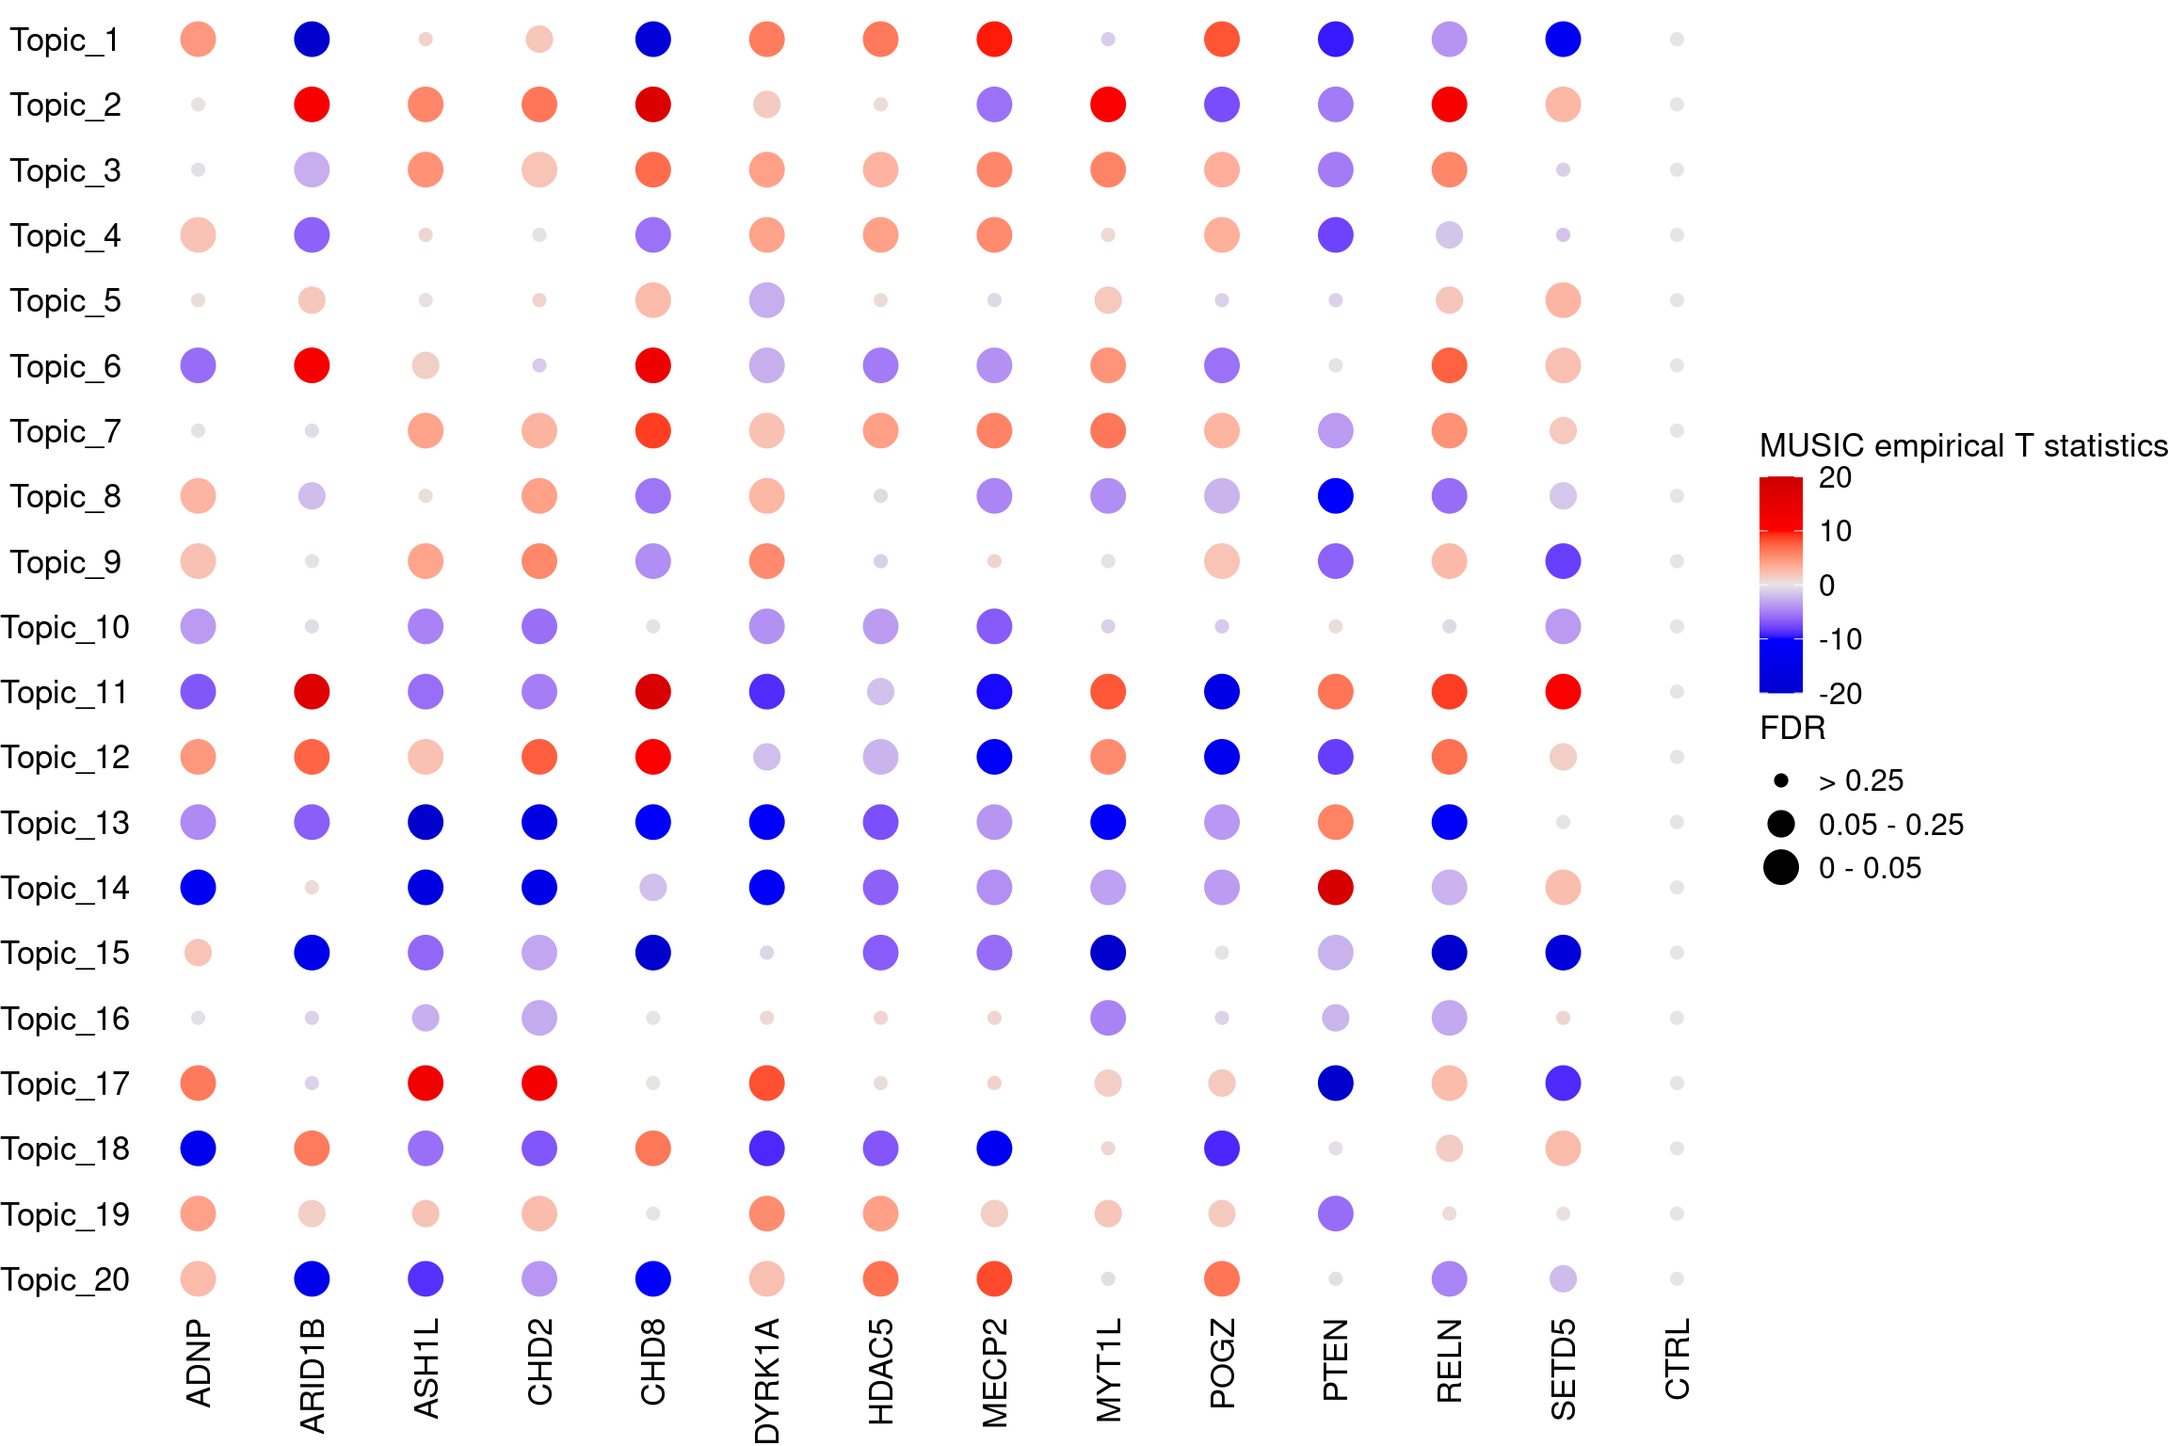
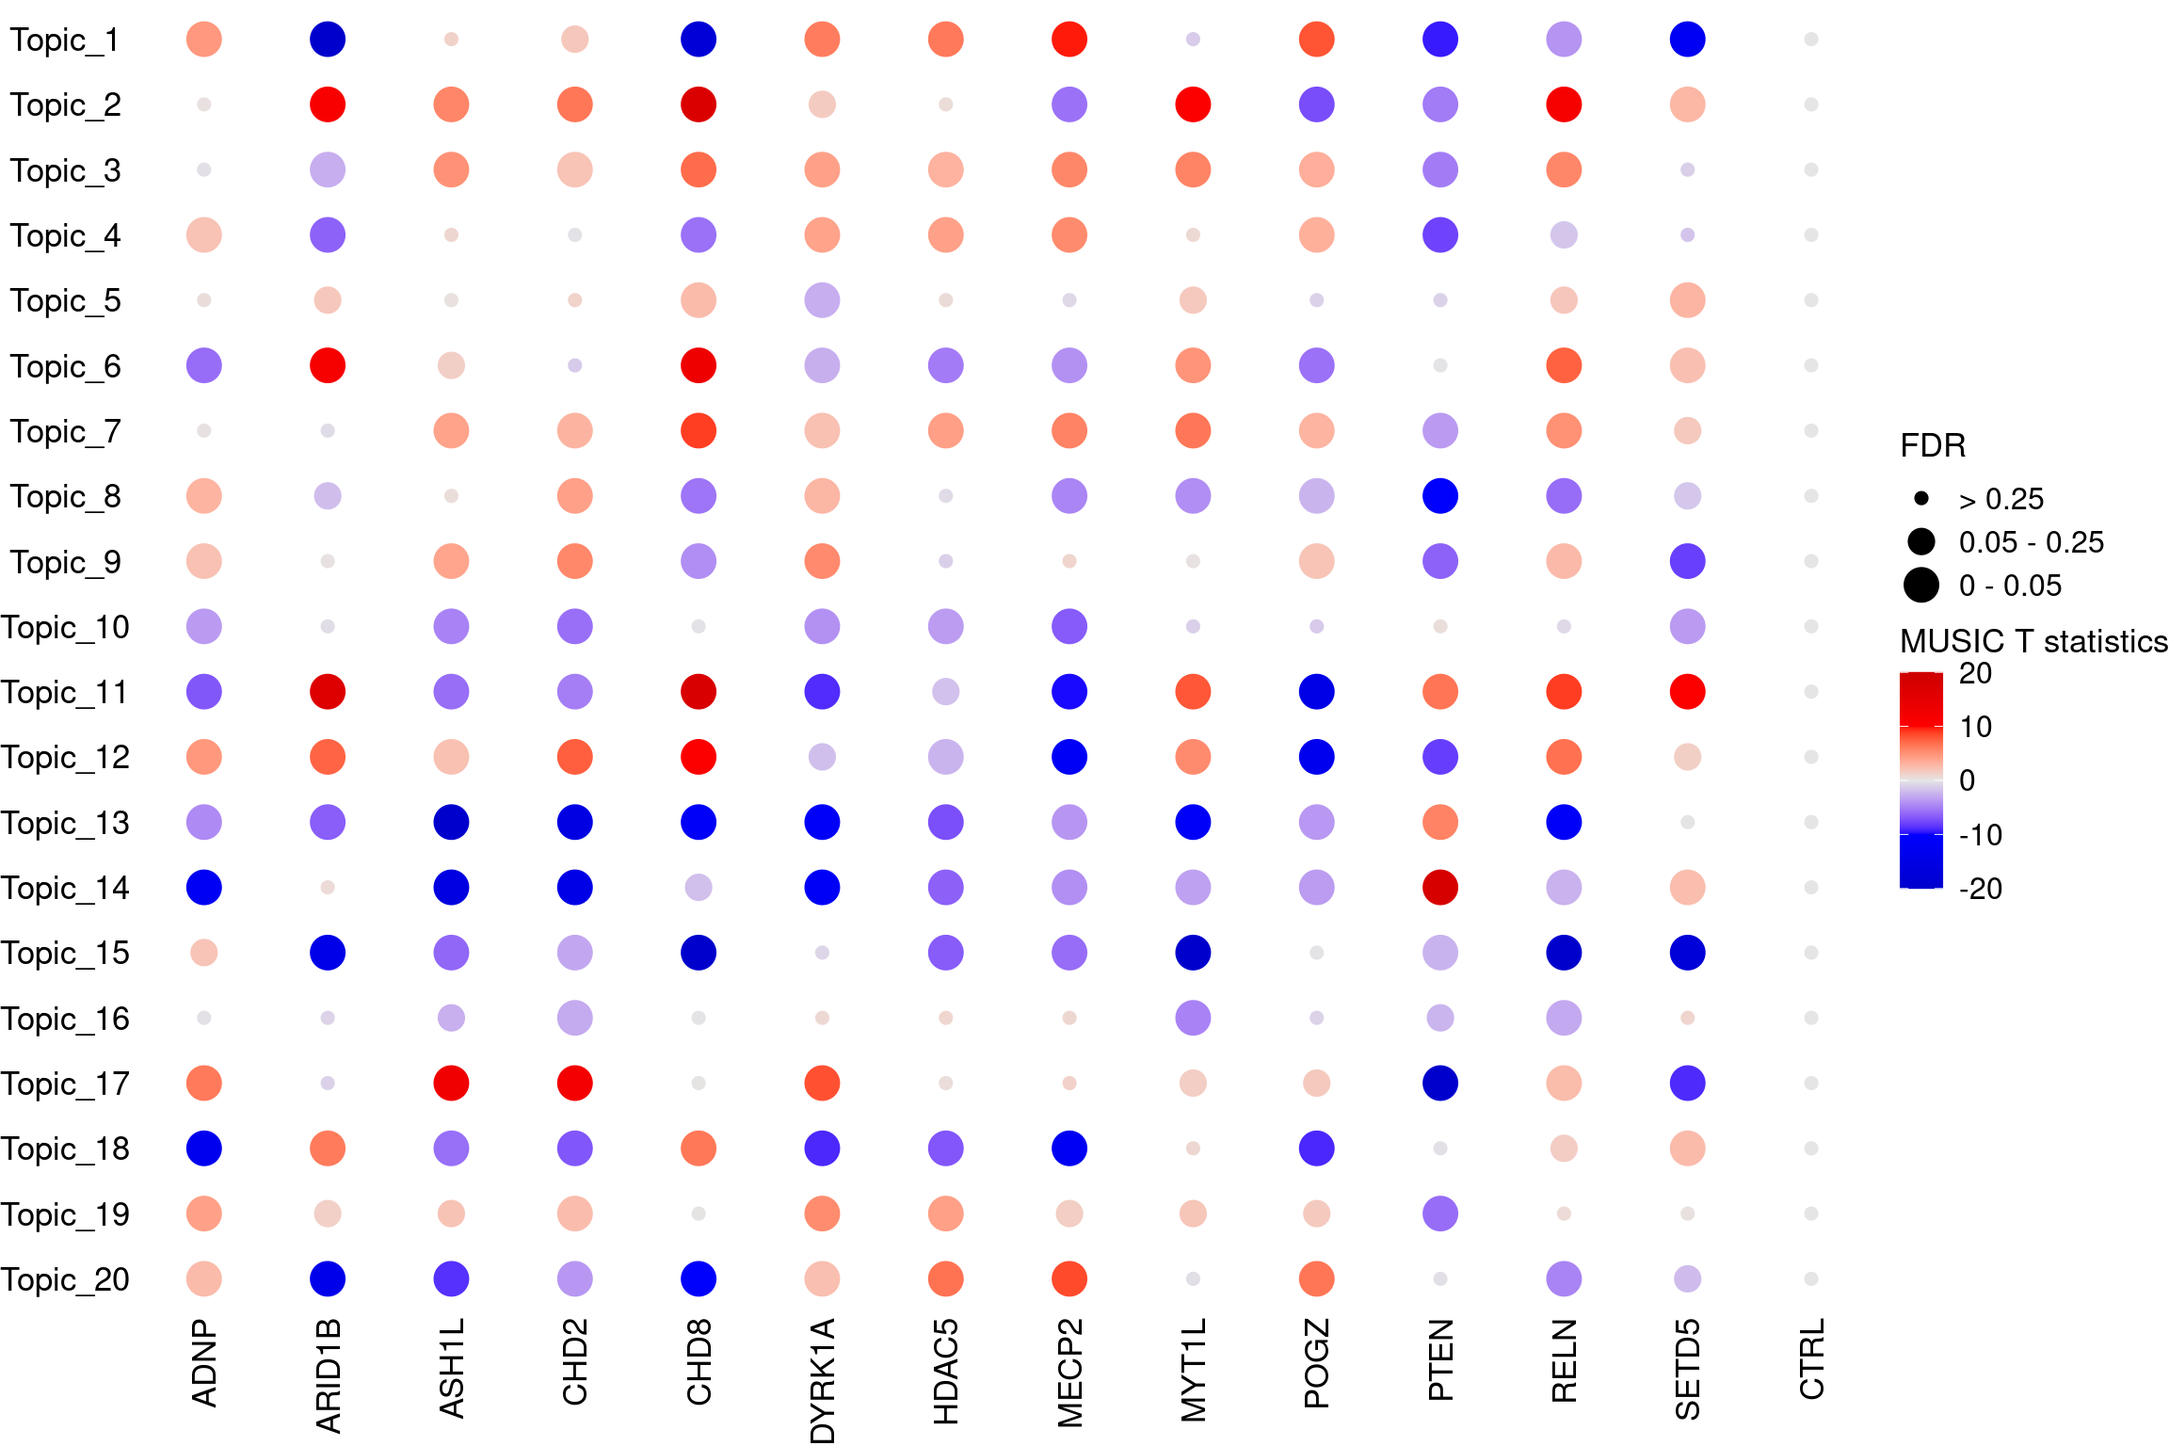
Build site.

diff --git a/docs/music_LUHMES_data.html b/docs/music_LUHMES_data.html
@@ -481,16 +481,16 @@ This reproducible <a href="https://rmarkdown.rstudio.com">R Markdown</a> analysi
 <div class="panel panel-default">
 <div class="panel-heading">
 <p class="panel-title">
-<a data-toggle="collapse" data-parent="#workflowr-checks" href="#strongRepositoryversionstrongahrefhttpsgithubcomkevinlkxGSFAanalysistreef5bca8a31531e4fbb291a07c9ed5ace21351dbcatargetblankf5bca8aa"> <span class="glyphicon glyphicon-ok text-success" aria-hidden="true"></span> <strong>Repository version:</strong> <a href="https://github.com/kevinlkx/GSFA-analysis/tree/f5bca8a31531e4fbb291a07c9ed5ace21351dbca" target="_blank">f5bca8a</a> </a>
+<a data-toggle="collapse" data-parent="#workflowr-checks" href="#strongRepositoryversionstrongahrefhttpsgithubcomkevinlkxGSFAanalysistree66afbb08b92317b1c845086ff906e45f00ec77a9targetblank66afbb0a"> <span class="glyphicon glyphicon-ok text-success" aria-hidden="true"></span> <strong>Repository version:</strong> <a href="https://github.com/kevinlkx/GSFA-analysis/tree/66afbb08b92317b1c845086ff906e45f00ec77a9" target="_blank">66afbb0</a> </a>
 </p>
 </div>
[2 lines of base64/hex data omitted]
 <div class="panel-body">
 <p>
 Great! You are using Git for version control. Tracking code development and connecting the code version to the results is critical for reproducibility.
 </p>
 <p>
-The results in this page were generated with repository version <a href="https://github.com/kevinlkx/GSFA-analysis/tree/f5bca8a31531e4fbb291a07c9ed5ace21351dbca" target="_blank">f5bca8a</a>. See the <em>Past versions</em> tab to see a history of the changes made to the R Markdown and HTML files.
+The results in this page were generated with repository version <a href="https://github.com/kevinlkx/GSFA-analysis/tree/66afbb08b92317b1c845086ff906e45f00ec77a9" target="_blank">66afbb0</a>. See the <em>Past versions</em> tab to see a history of the changes made to the R Markdown and HTML files.
 </p>
 <p>
 Note that you need to be careful to ensure that all relevant files for the analysis have been committed to Git prior to generating the results (you can use <code>wflow_publish</code> or <code>wflow_git_commit</code>). workflowr only checks the R Markdown file, but you know if there are other scripts or data files that it depends on. Below is the status of the Git repository when the results were generated:
@@ -503,14 +503,11 @@ Ignored files:
 Untracked files:
     Untracked:  analysis/interpret_gsfa_LUHMES.Rmd
     Untracked:  analysis/spca_LUHMES_data.Rmd
+    Untracked:  analysis/twostep_clustering_LUHMES_data.Rmd
     Untracked:  code/music_LUHMES_Yifan.R
     Untracked:  code/plotting_functions.R
     Untracked:  code/run_music_LUHMES.R
     Untracked:  code/run_music_LUHMES_data.sbatch
-    Untracked:  code/run_music_Tcells_stimulated_data.R
-    Untracked:  code/run_music_Tcells_stimulated_data.sbatch
-    Untracked:  code/run_music_Tcells_unstimulated_data.R
-    Untracked:  code/run_music_Tcells_unstimulated_data.sbatch
     Untracked:  code/run_sceptre_LUHMES_data.sbatch
     Untracked:  code/run_sceptre_Tcells_stimulated_data.sbatch
     Untracked:  code/run_sceptre_Tcells_unstimulated_data.sbatch
@@ -519,9 +516,9 @@ Untracked files:
     Untracked:  code/sceptre_LUHMES_data.R
     Untracked:  code/sceptre_Tcells_stimulated_data.R
     Untracked:  code/sceptre_Tcells_unstimulated_data.R
+    Untracked:  code/seurat_sim_fpr_tpr.R
 
 Unstaged changes:
-    Modified:   analysis/music_TCells_data.Rmd
     Modified:   analysis/sceptre_LUHMES_data.Rmd
     Modified:   code/run_sceptre_cropseq_data.sbatch
     Modified:   code/sceptre_analysis.R
@@ -563,6 +560,40 @@ Message
 </tr>
 </thead>
 <tbody>
+<tr>
+<td>
+Rmd
+</td>
+<td>
+<a href="https://github.com/kevinlkx/GSFA-analysis/blob/66afbb08b92317b1c845086ff906e45f00ec77a9/analysis/music_LUHMES_data.Rmd" target="_blank">66afbb0</a>
+</td>
+<td>
+kevinlkx
+</td>
+<td>
+2022-07-29
+</td>
+<td>
+update dotplot figure legend
+</td>
+</tr>
+<tr>
+<td>
+html
+</td>
+<td>
+<a href="https://rawcdn.githack.com/kevinlkx/GSFA-analysis/2763f3360213a6853baf049c46c0e69df3022fb8/docs/music_LUHMES_data.html" target="_blank">2763f33</a>
+</td>
+<td>
+kevinlkx
+</td>
+<td>
+2022-07-29
+</td>
+<td>
+Build site.
+</td>
+</tr>
 <tr>
 <td>
 Rmd
@@ -1052,18 +1083,92 @@ ht &lt;- Heatmap(log10_pval_mat,
                                                           fontface = &quot;bold&quot;)))
 draw(ht)</code></pre>
 <p><img src="figure/music_LUHMES_data.Rmd/empirical_tstats_heatmap_20topics-1.png" width="1152" style="display: block; margin: auto;" /></p>
+<p>
+<button type="button" class="btn btn-default btn-xs btn-workflowr btn-workflowr-fig" data-toggle="collapse" data-target="#fig-empirical_tstats_heatmap_20topics-1">
+Past versions of empirical_tstats_heatmap_20topics-1.png
+</button>
+</p>
+<div id="fig-empirical_tstats_heatmap_20topics-1" class="collapse">
+<div class="table-responsive">
+<table class="table table-condensed table-hover">
+<thead>
+<tr>
+<th>
+Version
+</th>
+<th>
+Author
+</th>
+<th>
+Date
+</th>
+</tr>
+</thead>
+<tbody>
+<tr>
+<td>
+<a href="https://github.com/kevinlkx/GSFA-analysis/blob/2763f3360213a6853baf049c46c0e69df3022fb8/docs/figure/music_LUHMES_data.Rmd/empirical_tstats_heatmap_20topics-1.png" target="_blank">2763f33</a>
+</td>
+<td>
+kevinlkx
+</td>
+<td>
+2022-07-29
+</td>
+</tr>
+</tbody>
+</table>
+</div>
+</div>
 <pre class="r"><code># dev.off()</code></pre>
 <pre class="r"><code># pdf(&quot;music_output/music_merged_20_topics_empirical_tstats_fdr_dotplot.pdf&quot;,
 #     width = 12, height = 8)
 KO_names &lt;- rownames(fdr_mat)
 dotplot_effectsize(t(effect_mat), t(fdr_mat),
                    reorder_markers = c(KO_names[KO_names!=&quot;CTRL&quot;], &quot;CTRL&quot;),
-                   color_lgd_title = &quot;MUSIC empirical T statistics&quot;,
+                   color_lgd_title = &quot;MUSIC T statistics&quot;,
                    size_lgd_title = &quot;FDR&quot;,
                    max_score = 20,
                    min_score = -20,
                    by_score = 10)</code></pre>
 <p><img src="figure/music_LUHMES_data.Rmd/effect_fdr_dotplot_20topics-1.png" width="1152" style="display: block; margin: auto;" /></p>
+<p>
+<button type="button" class="btn btn-default btn-xs btn-workflowr btn-workflowr-fig" data-toggle="collapse" data-target="#fig-effect_fdr_dotplot_20topics-1">
+Past versions of effect_fdr_dotplot_20topics-1.png
+</button>
+</p>
+<div id="fig-effect_fdr_dotplot_20topics-1" class="collapse">
+<div class="table-responsive">
+<table class="table table-condensed table-hover">
+<thead>
+<tr>
+<th>
+Version
+</th>
+<th>
+Author
+</th>
+<th>
+Date
+</th>
+</tr>
+</thead>
+<tbody>
+<tr>
+<td>
+<a href="https://github.com/kevinlkx/GSFA-analysis/blob/2763f3360213a6853baf049c46c0e69df3022fb8/docs/figure/music_LUHMES_data.Rmd/effect_fdr_dotplot_20topics-1.png" target="_blank">2763f33</a>
+</td>
+<td>
+kevinlkx
+</td>
+<td>
+2022-07-29
+</td>
+</tr>
+</tbody>
+</table>
+</div>
+</div>
 <pre class="r"><code># dev.off()</code></pre>
 </div>
 <div id="summarize-the-results-using-the-optimal-number-of-topics-selected-by-the-score" class="section level3">
@@ -1237,18 +1342,92 @@ ht &lt;- Heatmap(log10_pval_mat,
                                                           fontface = &quot;bold&quot;)))
 draw(ht)</code></pre>
 <p><img src="figure/music_LUHMES_data.Rmd/empirical_tstats_heatmap_4topics-1.png" width="1152" style="display: block; margin: auto;" /></p>
+<p>
+<button type="button" class="btn btn-default btn-xs btn-workflowr btn-workflowr-fig" data-toggle="collapse" data-target="#fig-empirical_tstats_heatmap_4topics-1">
+Past versions of empirical_tstats_heatmap_4topics-1.png
+</button>
+</p>
+<div id="fig-empirical_tstats_heatmap_4topics-1" class="collapse">
+<div class="table-responsive">
+<table class="table table-condensed table-hover">
+<thead>
+<tr>
+<th>
+Version
+</th>
+<th>
+Author
+</th>
+<th>
+Date
+</th>
+</tr>
+</thead>
+<tbody>
+<tr>
+<td>
+<a href="https://github.com/kevinlkx/GSFA-analysis/blob/2763f3360213a6853baf049c46c0e69df3022fb8/docs/figure/music_LUHMES_data.Rmd/empirical_tstats_heatmap_4topics-1.png" target="_blank">2763f33</a>
+</td>
+<td>
+kevinlkx
+</td>
+<td>
+2022-07-29
+</td>
+</tr>
+</tbody>
+</table>
+</div>
+</div>
 <pre class="r"><code># dev.off()</code></pre>
 <pre class="r"><code># pdf(&quot;music_output/music_merged_4_topics_empirical_tstats_fdr_dotplot.pdf&quot;,
 #     width = 12, height = 8)
 KO_names &lt;- rownames(fdr_mat)
 dotplot_effectsize(t(effect_mat), t(fdr_mat),
                    reorder_markers = c(KO_names[KO_names!=&quot;CTRL&quot;], &quot;CTRL&quot;),
-                   color_lgd_title = &quot;MUSIC empirical T statistics&quot;,
+                   color_lgd_title = &quot;MUSIC T statistics&quot;,
                    size_lgd_title = &quot;FDR&quot;,
                    max_score = 20,
                    min_score = -20,
                    by_score = 10)</code></pre>
 <p><img src="figure/music_LUHMES_data.Rmd/effect_fdr_dotplot_4topics-1.png" width="1152" style="display: block; margin: auto;" /></p>
+<p>
+<button type="button" class="btn btn-default btn-xs btn-workflowr btn-workflowr-fig" data-toggle="collapse" data-target="#fig-effect_fdr_dotplot_4topics-1">
+Past versions of effect_fdr_dotplot_4topics-1.png
+</button>
+</p>
+<div id="fig-effect_fdr_dotplot_4topics-1" class="collapse">
+<div class="table-responsive">
+<table class="table table-condensed table-hover">
+<thead>
+<tr>
+<th>
+Version
+</th>
+<th>
+Author
+</th>
+<th>
+Date
+</th>
+</tr>
+</thead>
+<tbody>
+<tr>
+<td>
+<a href="https://github.com/kevinlkx/GSFA-analysis/blob/2763f3360213a6853baf049c46c0e69df3022fb8/docs/figure/music_LUHMES_data.Rmd/effect_fdr_dotplot_4topics-1.png" target="_blank">2763f33</a>
+</td>
+<td>
+kevinlkx
+</td>
+<td>
+2022-07-29
+</td>
+</tr>
+</tbody>
+</table>
+</div>
+</div>
 <pre class="r"><code># dev.off()</code></pre>
 <br>
 <p>
@@ -1285,6 +1464,7 @@ other attached packages:
 [13] topicmodels_0.2-12     Biostrings_2.58.0      XVector_0.30.0        
 [16] IRanges_2.24.1         S4Vectors_0.28.1       BiocGenerics_0.36.1   
 [19] SeuratObject_4.0.4     Seurat_4.1.0           data.table_1.14.2     
+[22] workflowr_1.7.0       
 
 loaded via a namespace (and not attached):
   [1] utf8_1.2.2            R.utils_2.11.0        reticulate_1.24      
@@ -1305,43 +1485,44 @@ loaded via a namespace (and not attached):
  [46] fgsea_1.21.0          assertthat_0.2.1      promises_1.2.0.1     
  [49] scales_1.2.0          ggraph_2.0.5          enrichplot_1.10.2    
  [52] gtable_0.3.0          Cairo_1.5-15          globals_0.14.0       
- [55] goftest_1.2-3         tidygraph_1.2.0       workflowr_1.7.0      
+ [55] processx_3.5.3        goftest_1.2-3         tidygraph_1.2.0      
  [58] rlang_1.0.2           GlobalOptions_0.1.2   splines_4.0.4        
  [61] lazyeval_0.2.2        spatstat.geom_2.3-2   BiocManager_1.30.16  
  [64] yaml_2.3.5            abind_1.4-5           httpuv_1.6.5         
  [67] qvalue_2.22.0         tools_4.0.4           ellipsis_0.3.2       
  [70] spatstat.core_2.4-0   jquerylib_0.1.4       RColorBrewer_1.1-3   
  [73] ggridges_0.5.3        Rcpp_1.0.9            plyr_1.8.6           
- [76] zlibbioc_1.36.0       purrr_0.3.4           rpart_4.1-15         
- [79] deldir_1.0-6          GetoptLong_1.0.5      pbapply_1.5-0        
- [82] viridis_0.6.2         cowplot_1.1.1         zoo_1.8-9            
- [85] ggrepel_0.9.1         cluster_2.1.2         fs_1.5.2             
- [88] magrittr_2.0.3        scattermore_0.7       DO.db_2.9            
- [91] circlize_0.4.14       lmtest_0.9-40         RANN_2.6.1           
- [94] whisker_0.4           fitdistrplus_1.1-8    matrixStats_0.61.0   
- [97] patchwork_1.1.1       mime_0.12             evaluate_0.15        
-[100] xtable_1.8-4          shape_1.4.6           gridExtra_2.3        
-[103] compiler_4.0.4        tibble_3.1.6          KernSmooth_2.23-20   
-[106] crayon_1.5.1          shadowtext_0.1.1      R.oo_1.24.0          
-[109] htmltools_0.5.2       ggfun_0.0.5           mgcv_1.8-39          
-[112] later_1.3.0           tidyr_1.2.0           DBI_1.1.2            
-[115] tweenr_1.0.2          MASS_7.3-56           Matrix_1.4-1         
-[118] cli_3.2.0             R.methodsS3_1.8.1     pkgconfig_2.0.3      
-[121] rvcheck_0.2.1         plotly_4.10.0         spatstat.sparse_2.1-0
-[124] foreach_1.5.2         xml2_1.3.3            bslib_0.3.1          
-[127] yulab.utils_0.0.4     stringr_1.4.0         digest_0.6.29        
-[130] sctransform_0.3.3     RcppAnnoy_0.0.19      spatstat.data_2.1-2  
-[133] tm_0.7-8              rmarkdown_2.13        leiden_0.3.9         
-[136] fastmatch_1.1-3       uwot_0.1.11           gtools_3.9.2         
-[139] shiny_1.7.1           modeltools_0.2-23     rjson_0.2.21         
-[142] lifecycle_1.0.1       nlme_3.1-155          jsonlite_1.8.0       
-[145] viridisLite_0.4.0     fansi_1.0.3           pillar_1.7.0         
-[148] fastmap_1.1.0         httr_1.4.2            survival_3.3-1       
-[151] GO.db_3.12.1          glue_1.6.2            iterators_1.0.14     
-[154] png_0.1-7             bit_4.0.4             ggforce_0.3.3        
-[157] stringi_1.7.6         sass_0.4.1            blob_1.2.3           
-[160] caTools_1.18.2        memoise_2.0.1         irlba_2.3.5          
-[163] future.apply_1.8.1   </code></pre>
+ [76] zlibbioc_1.36.0       purrr_0.3.4           ps_1.6.0             
+ [79] rpart_4.1-15          deldir_1.0-6          GetoptLong_1.0.5     
+ [82] pbapply_1.5-0         viridis_0.6.2         cowplot_1.1.1        
+ [85] zoo_1.8-9             ggrepel_0.9.1         cluster_2.1.2        
+ [88] fs_1.5.2              magrittr_2.0.3        scattermore_0.7      
+ [91] DO.db_2.9             circlize_0.4.14       lmtest_0.9-40        
+ [94] RANN_2.6.1            whisker_0.4           fitdistrplus_1.1-8   
+ [97] matrixStats_0.61.0    patchwork_1.1.1       mime_0.12            
+[100] evaluate_0.15         xtable_1.8-4          shape_1.4.6          
+[103] gridExtra_2.3         compiler_4.0.4        tibble_3.1.6         
+[106] KernSmooth_2.23-20    crayon_1.5.1          shadowtext_0.1.1     
+[109] R.oo_1.24.0           htmltools_0.5.2       ggfun_0.0.5          
+[112] mgcv_1.8-39           later_1.3.0           tidyr_1.2.0          
+[115] DBI_1.1.2             tweenr_1.0.2          MASS_7.3-56          
+[118] Matrix_1.4-1          cli_3.2.0             R.methodsS3_1.8.1    
+[121] pkgconfig_2.0.3       getPass_0.2-2         rvcheck_0.2.1        
+[124] plotly_4.10.0         spatstat.sparse_2.1-0 foreach_1.5.2        
+[127] xml2_1.3.3            bslib_0.3.1           yulab.utils_0.0.4    
+[130] stringr_1.4.0         callr_3.7.0           digest_0.6.29        
+[133] sctransform_0.3.3     RcppAnnoy_0.0.19      spatstat.data_2.1-2  
+[136] tm_0.7-8              rmarkdown_2.13        leiden_0.3.9         
+[139] fastmatch_1.1-3       uwot_0.1.11           gtools_3.9.2         
+[142] shiny_1.7.1           modeltools_0.2-23     rjson_0.2.21         
+[145] lifecycle_1.0.1       nlme_3.1-155          jsonlite_1.8.0       
+[148] viridisLite_0.4.0     fansi_1.0.3           pillar_1.7.0         
+[151] fastmap_1.1.0         httr_1.4.2            survival_3.3-1       
+[154] GO.db_3.12.1          glue_1.6.2            iterators_1.0.14     
+[157] png_0.1-7             bit_4.0.4             ggforce_0.3.3        
+[160] stringi_1.7.6         sass_0.4.1            blob_1.2.3           
+[163] caTools_1.18.2        memoise_2.0.1         irlba_2.3.5          
+[166] future.apply_1.8.1   </code></pre>
 </div>
 </div>
 </div>
